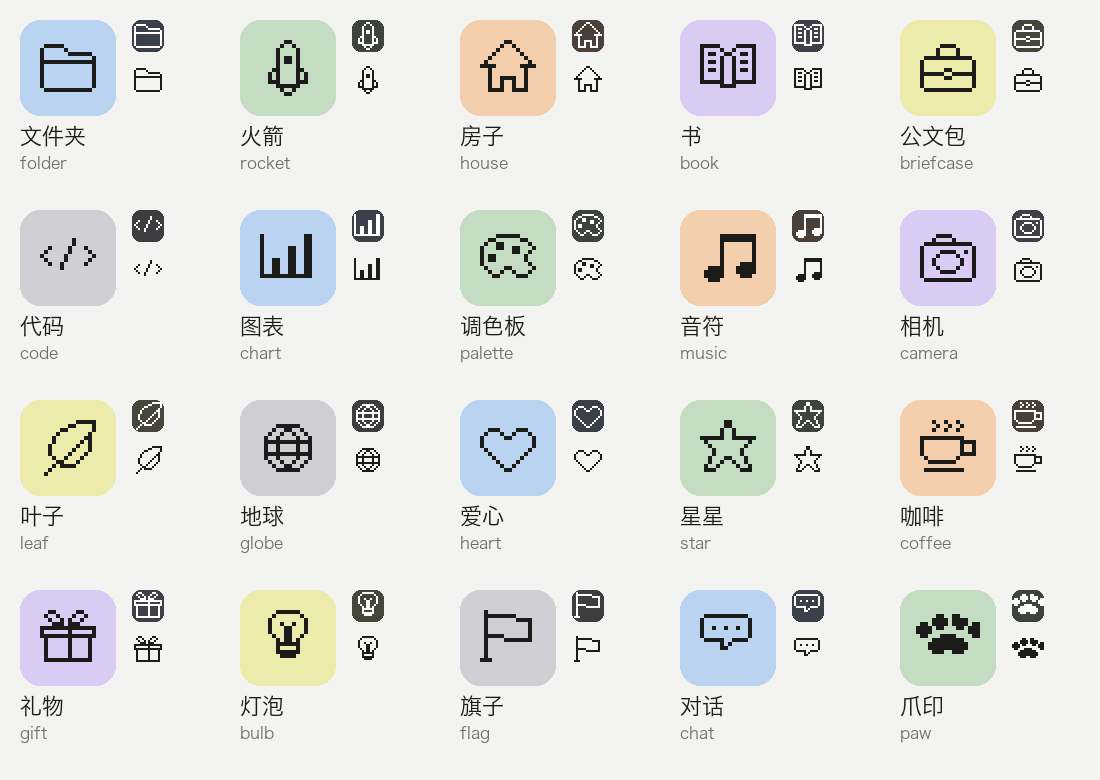
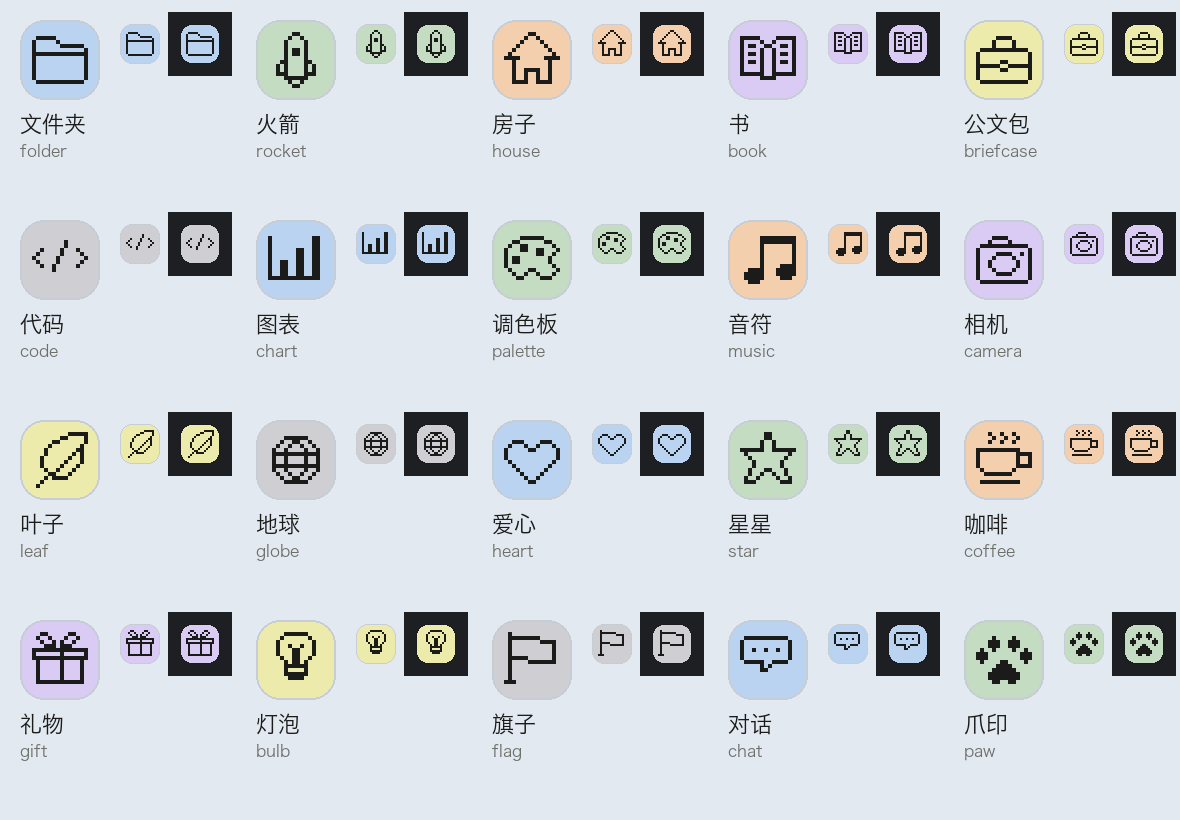
空间图标：爪印不再贴边，四周留白加检查；总览照规范的空间色和 on-mark 画

diff --git a/design/space-icons/export.py b/design/space-icons/export.py
@@ -4,7 +4,9 @@
 
 - out/<id>.svg：矢量，fill 是 currentColor，跟着文字色或空间色走；
 - out/<id>@3x.png：48×48 黑色模板图，iOS 当 template image 用；
-- out/overview.png：总览，每个图标放在六种空间色的标记方块上看一遍。
+- out/overview.png：总览，每个图标放在空间色的标记方块里，浅色和深色窗框上各看一遍。
+
+颜色和尺寸照设计规范：方块底是空间原色（mark-*），图标是 on-mark，20pt 方块里画 16pt，40pt 里画 32pt。
 """
 import os
 import sys
@@ -16,9 +18,11 @@ sys.path.insert(0, HERE)
 from icons import ICONS  # noqa: E402
 
 OUT = os.path.join(HERE, "out")
-# 设计规范里的空间色：标记方块用的 mark 色（空间色往墨色压 30%）。
-MARKS = ["#3a4049", "#3d443c", "#4a4037", "#423e4a", "#47463a", "#3e3e40"]
+# 设计规范 tokens.json 里的值：mark-*（就是空间原色）、on-mark，和默认强度下的窗框 frame-*。
 SPACES = ["#b9d3f0", "#c4dcc2", "#f4cfae", "#d9cbf3", "#ecebab", "#cfcfd3"]
+ON_MARK = "#1b1b1a"
+FRAME_LIGHT = "#e2e9f1"
+FRAME_DARK = "#1d1f22"
 
 
 def svg(rows):
@@ -59,28 +63,33 @@ def font(size):
     return ImageFont.load_default()
 
 
+def tile(grid, cell, color):
+    """一个标记方块：边长 = 图标 16 格 + 两边各 2 个 pt（按 cell 缩放），圆角是边长的 30%。"""
+    side = (16 + 4) * cell
+    im = Image.new("RGBA", (side, side), (0, 0, 0, 0))
+    d = ImageDraw.Draw(im)
+    d.rounded_rectangle([0, 0, side - 1, side - 1], round(side * 0.3), fill=rgba(color), outline=(0, 0, 0, 31), width=max(1, cell // 2))
+    im.alpha_composite(png(grid, cell, rgba(ON_MARK)), (2 * cell, 2 * cell))
+    return im
+
+
 def overview():
-    cols, cell = 5, 220
+    """@2x 画：大方块是 mark-lg 40，小方块是 mark 20，分别放在浅色和深色窗框上。"""
+    cols, cell_w, cell_h = 5, 236, 200
     items = list(ICONS.items())
     rows = (len(items) + cols - 1) // cols
-    sheet = Image.new("RGBA", (cols * cell, rows * 190 + 20), rgba("#f3f3f1"))
+    sheet = Image.new("RGBA", (cols * cell_w, rows * cell_h + 20), rgba(FRAME_LIGHT))
     d = ImageDraw.Draw(sheet)
     for i, (iid, (name, grid)) in enumerate(items):
-        x, y = (i % cols) * cell + 20, (i // cols) * 190 + 20
-        # 大图：空间色底，墨色图标
-        tile = Image.new("RGBA", (96, 96), (0, 0, 0, 0))
-        ImageDraw.Draw(tile).rounded_rectangle([0, 0, 95, 95], 20, fill=rgba(SPACES[i % 6]))
-        tile.alpha_composite(png(grid, 4, rgba("#1b1b1a")), (16, 16))
-        sheet.alpha_composite(tile, (x, y))
-        # 实际大小：16pt @2x 的标记方块，白图标
-        small = Image.new("RGBA", (32, 32), (0, 0, 0, 0))
-        ImageDraw.Draw(small).rounded_rectangle([0, 0, 31, 31], 8, fill=rgba(MARKS[i % 6]))
-        small.alpha_composite(png(grid, 2, (255, 255, 255, 255)))
-        sheet.alpha_composite(small, (x + 112, y))
-        # 不带方块，直接墨色
-        sheet.alpha_composite(png(grid, 2, rgba("#1b1b1a")), (x + 112, y + 44))
-        d.text((x, y + 104), name, fill=rgba("#1b1b1a"), font=font(22))
-        d.text((x, y + 134), iid, fill=rgba("#6f6f6a"), font=font(16))
+        x, y = (i % cols) * cell_w + 20, (i // cols) * cell_h + 20
+        color = SPACES[i % 6]
+        sheet.alpha_composite(tile(grid, 4, color), (x, y))
+        dark = Image.new("RGBA", (64, 64), rgba(FRAME_DARK))
+        dark.alpha_composite(tile(grid, 2, color), (12, 12))
+        sheet.alpha_composite(tile(grid, 2, color), (x + 100, y + 4))
+        sheet.alpha_composite(dark, (x + 140 + 8, y - 8))
+        d.text((x, y + 92), name, fill=rgba("#1b1b1a"), font=font(22))
+        d.text((x, y + 122), iid, fill=rgba("#6f6f6a"), font=font(16))
     return sheet
 
 

diff --git a/design/space-icons/icons.py b/design/space-icons/icons.py
@@ -352,18 +352,18 @@ ICONS = {
     "paw": ("爪印", [
         "................",
         "................",
-        ".....##..##.....",
-        "....####.####...",
-        ".##.####.####.##",
-        "####.##...##.###",
-        "####.........###",
-        ".##...####....##",
-        "....########....",
-        "...##########...",
-        "...##########...",
+        ".....#....#.....",
         "....###..###....",
-        "................",
-        "................",
+        "....###..###....",
+        "..#..#....#..#..",
+        ".###........###.",
+        ".###........###.",
+        "..#....##....#..",
+        "......####......",
+        ".....######.....",
+        "....########....",
+        "....########....",
+        ".....##..##.....",
         "................",
         "................",
     ]),
@@ -371,3 +371,6 @@ ICONS = {
 
 for _id, (_name, rows) in ICONS.items():
     assert len(rows) == 16 and all(len(r) == 16 for r in rows), _id
+    # 四周各留一格：放进圆角方块时不会被圆角切掉
+    edges = rows[0] + rows[15] + "".join(r[0] + r[15] for r in rows)
+    assert "#" not in edges, f"{_id} 贴边了"
